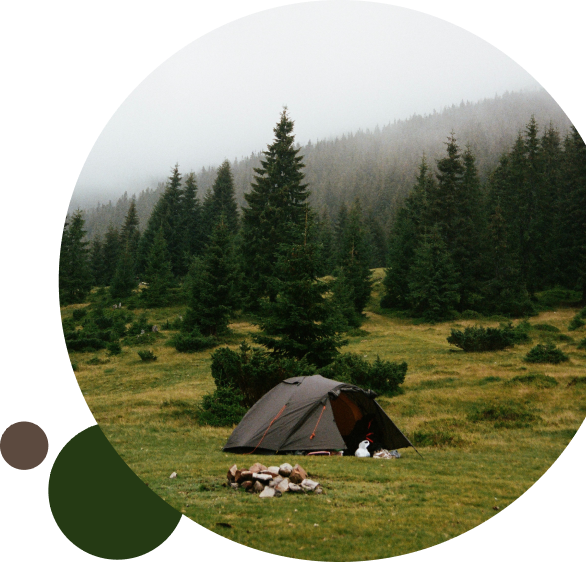
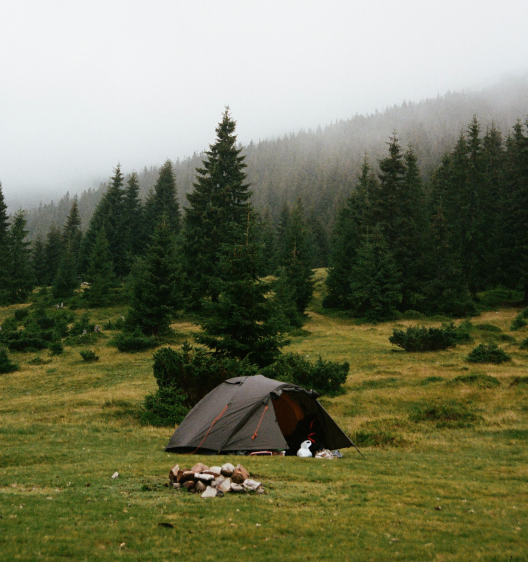
features section complete, image circle added

diff --git a/src/layout/Features.jsx b/src/layout/Features.jsx
@@ -1,5 +1,6 @@
 import Section from "layout/Section";
 import Feature from "components/Feature";
+import ImageCircle from "components/ImageCircle";
 import features from "data/features";
 import FeaturesImage from "assets/features.png";
 
@@ -21,8 +22,9 @@ const Features = () => {
             />
           ))}
         </div>
-        <div className="pl-6 sm:pl-0 pb-14 lg:pb-0">
-          <img src={FeaturesImage} alt="" />
+        <div className="pl-6 sm:pl-0 pb-14 lg:pb-0 ">
+          {/* <img src={FeaturesImage} alt="" /> */}
+          <ImageCircle image={FeaturesImage} imgClasses="max-w-562" />
         </div>
       </div>
     </Section>

diff --git a/src/components/ImageCircle.jsx b/src/components/ImageCircle.jsx
@@ -1,0 +1,17 @@
+const ImageCircle = (props) => {
+  const { image, imgClasses } = props;
+
+  return (
+    <div className="relative -mr-9 ml-auto w-11/12 sm:w-auto">
+      <div
+        className={`rounded-full overflow-hidden relative z-2 aspect-square ${imgClasses}`}
+      >
+        <img src={image} alt="" className="w-full" />
+      </div>
+      <div className="w-[26.5%] aspect-square bg-dark-green rounded-full absolute bottom-0 z-1 -left-5"></div>
+      <div className="w-[9%] aspect-square bg-brown rounded-full absolute z-1 bottom-[18%] -left-[15%] sm:-left-[12%]"></div>
+    </div>
+  );
+};
+
+export default ImageCircle;

diff --git a/src/layout/Section.jsx b/src/layout/Section.jsx
@@ -13,7 +13,7 @@ const Section = (props) => {
 
   return (
     <section className={`${classes} xl:py-28 lg:py-24 py-20`}>
-      <div className="2xl:container">
+      <div className="2xl:container overflow-hidden">
         <h2
           className={`${headingClasses} text-dark-green text-center xl:mb-20 lg:mb-16 mb-14`}
         >

diff --git a/tailwind.config.js b/tailwind.config.js
@@ -41,6 +41,9 @@ export default {
       animation: {
         visible: "visible 0.3s ease-in-out",
       },
+      maxWidth: {
+        562: "562px",
+      },
     },
   },
   plugins: [],
